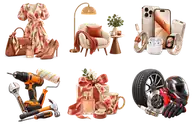
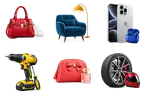
UI: simplify main category showcase visuals
* UI: simplify main category showcase assets

* UI: version simplified category showcase atlas

* test(ui): lock simplified showcase atlas binary

* test(ui): expect simplified showcase asset version

* UI: replace showcase atlas with compact valid binary

* test(ui): lock compact simplified showcase atlas

diff --git a/public/boutique/tests/unit/showcase-atlas-integrity.test.js b/public/boutique/tests/unit/showcase-atlas-integrity.test.js
@@ -8,13 +8,17 @@ const ROOT = path.resolve(__dirname, '../..');
 const EXPECTED = [
   {
     file: 'categories/komerce-showcase-v1-main.webp',
-    bytes: 14378,
[1 lines of base64/hex data omitted]
+    bytes: 6262,
[1 lines of base64/hex data omitted]
+    width: 144,
+    height: 96,
   },
   {
     file: 'categories/komerce-showcase-v1-mode.webp',
     bytes: 11626,
[1 lines of base64/hex data omitted]
+    width: 192,
+    height: 128,
   },
 ];
 
@@ -34,7 +38,10 @@ describe('Komerce showcase atlas binary integrity', () => {
       expect(buf.length).toBe(expected.bytes);
       expect(crypto.createHash('sha256').update(buf).digest('hex')).toBe(expected.sha256);
       expect(buf.readUInt32LE(4) + 8).toBe(buf.length);
-      expect(vp8xDimensions(buf)).toEqual({ width: 192, height: 128 });
+      expect(vp8xDimensions(buf)).toEqual({
+        width: expected.width,
+        height: expected.height,
+      });
     });
   }
 });

diff --git a/public/boutique/tests/unit/category-cutout-navigation.test.js b/public/boutique/tests/unit/category-cutout-navigation.test.js
@@ -43,7 +43,7 @@ describe('Komerce Shelf category navigation contract', () => {
   });
 
   it('porte le showcase photo v1 dans le registre visuel unique', () => {
-    expect(visuals).toContain("KOMERCE_SHOWCASE_V1_MAIN = '/boutique/categories/komerce-showcase-v1-main.webp?v=3'");
+    expect(visuals).toContain("KOMERCE_SHOWCASE_V1_MAIN = '/boutique/categories/komerce-showcase-v1-main.webp?v=4'");
     expect(visuals).toContain("KOMERCE_SHOWCASE_V1_MODE = '/boutique/categories/komerce-showcase-v1-mode.webp?v=3'");
     expect(visuals).toContain("'Mode & Beauté': 'showcase-main:0:0'");
     expect(visuals).toContain("Maison: 'showcase-main:1:0'");

diff --git a/public/boutique/js/render/category-shelf-visuals.js b/public/boutique/js/render/category-shelf-visuals.js
@@ -11,7 +11,7 @@
 'use strict';
 
 export const KOMERCE_SHELF_SPRITE = '/boutique/categories/komerce-shelf-sprite.svg';
-export const KOMERCE_SHOWCASE_V1_MAIN = '/boutique/categories/komerce-showcase-v1-main.webp?v=3';
+export const KOMERCE_SHOWCASE_V1_MAIN = '/boutique/categories/komerce-showcase-v1-main.webp?v=4';
 export const KOMERCE_SHOWCASE_V1_MODE = '/boutique/categories/komerce-showcase-v1-mode.webp?v=3';
 
 const CATEGORY_VISUALS = {
